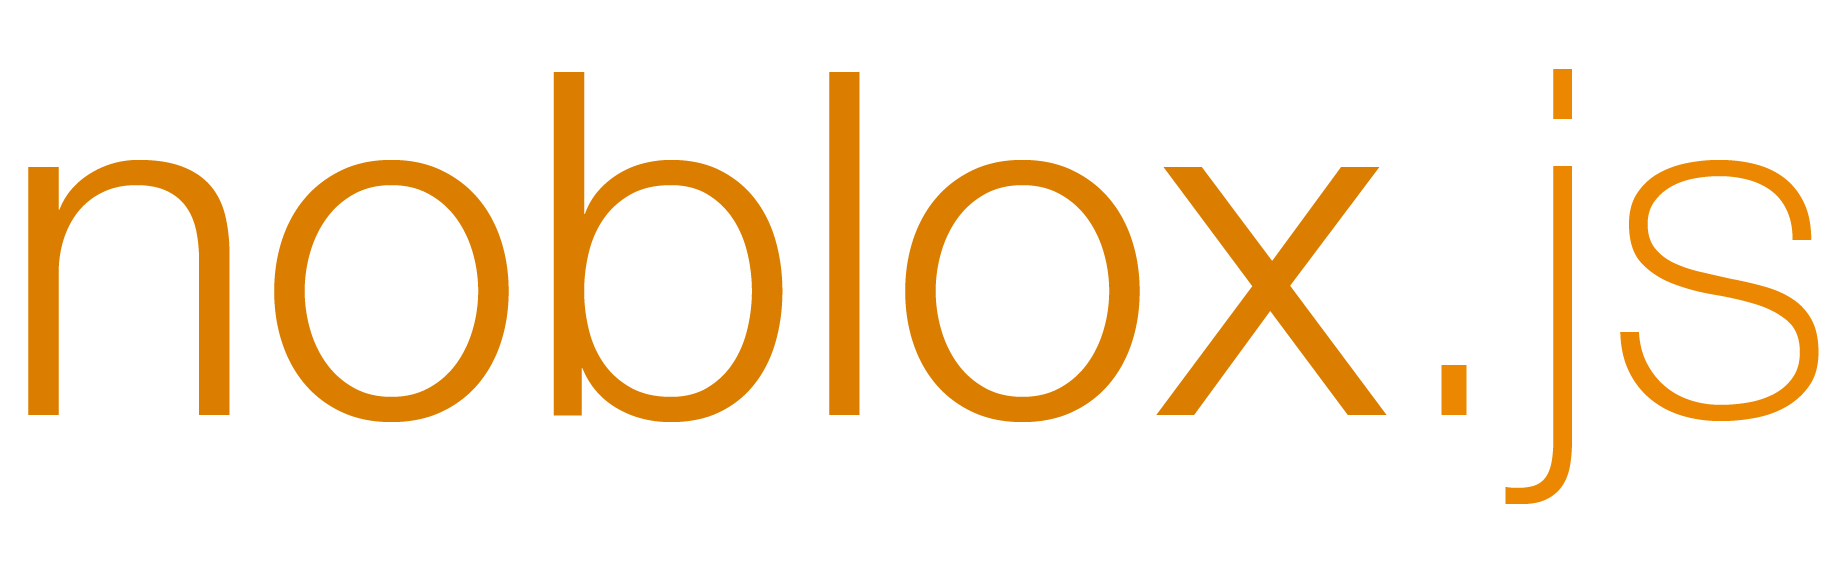
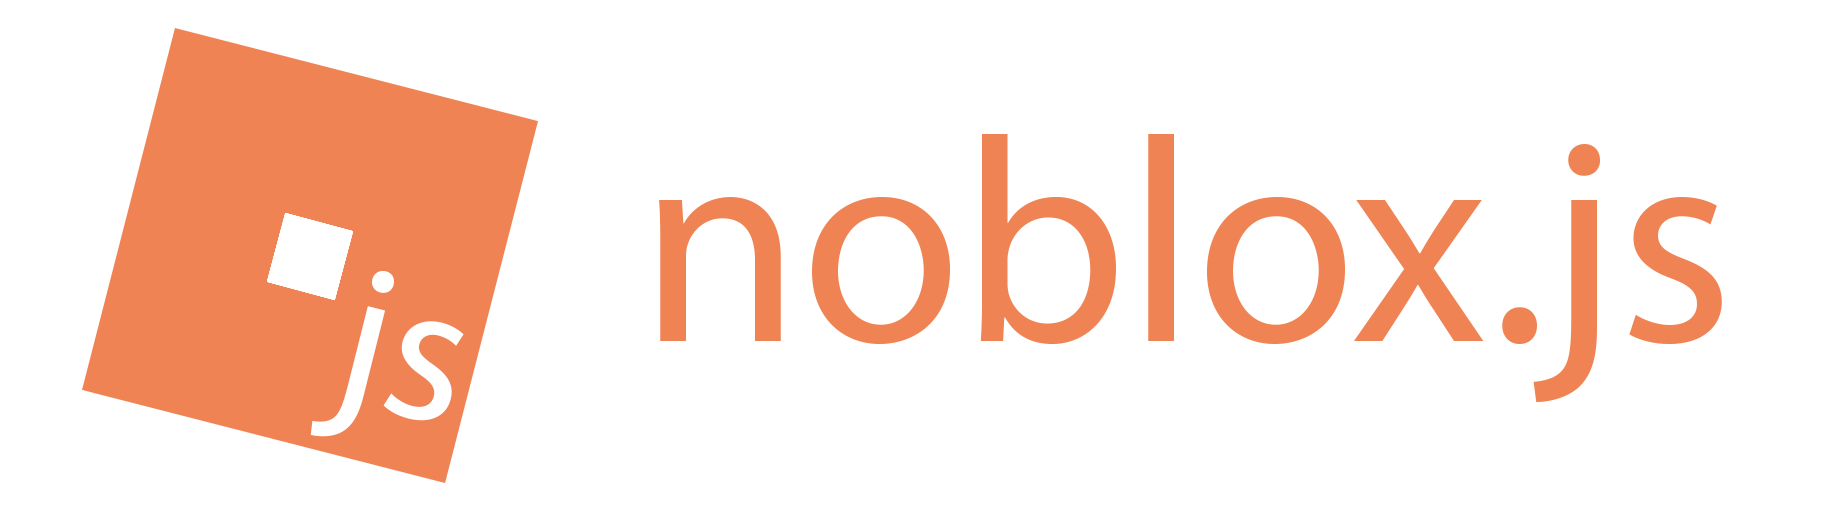
Use new images & noblox.js-server link

diff --git a/README.md b/README.md
@@ -1,5 +1,5 @@
 <h1 align="center">
-    <img src="https://raw.githubusercontent.com/suufi/noblox.js/master/img/noblox-js.png" alt="noblox.js" width="250"/>
+    <img src="https://raw.githubusercontent.com/suufi/noblox.js/master/img/noblox-js.png" alt="noblox.js" width="400"/>
     <br>
 </h1>
 
@@ -27,7 +27,7 @@
 
 Noblox.js is a node module that was forked from <a href="https://github.com/sentanos/roblox-js">sentanos's roblox-js module</a>. This project was created because the roblox-js repository was no longer maintained by sentanos.
 
-Noblox.js allows you to do things you would normally do on the [Roblox](https://www.roblox.com) website through a Node.js interface. You can use noblox.js along with Roblox's [HttpService feature](http://wiki.roblox.com/index.php?title=API:Class/HttpService) to create scripts that interact with the website. If you're looking for more information on how to create something like this, check out [this](https://github.com/sentanos/roblox-js-server) repository by sentanos. Keep in mind that this does not use the latest version of this module and it is **highly** encouraged that you learn to use the library directly.
+Noblox.js allows you to do things you would normally do on the [Roblox](https://www.roblox.com) website through a Node.js interface. You can use noblox.js along with Roblox's [HttpService feature](http://wiki.roblox.com/index.php?title=API:Class/HttpService) to create scripts that interact with the website. If you're looking for more information on how to create something like this, check out [this](https://github.com/noblox/noblox.js-server) repository by our team. Keep in mind that this does not use the latest version of this module and it is **highly** encouraged that you learn to use the library directly.
 
 ## Prerequisites
 
@@ -84,7 +84,7 @@ async function startApp () {
 ```
 
 ## Drawbacks
-- Roblox-js-server is **not** currently compatible. Use [noblox.js-server](https://github.com/Hamzah-z/noblox.js-server) instead.
+- Roblox-js-server is **not** currently compatible. Use [noblox.js-server](https://github.com/noblox/noblox.js-server) instead.
 
 ## Common issues
 ### CSRF 
